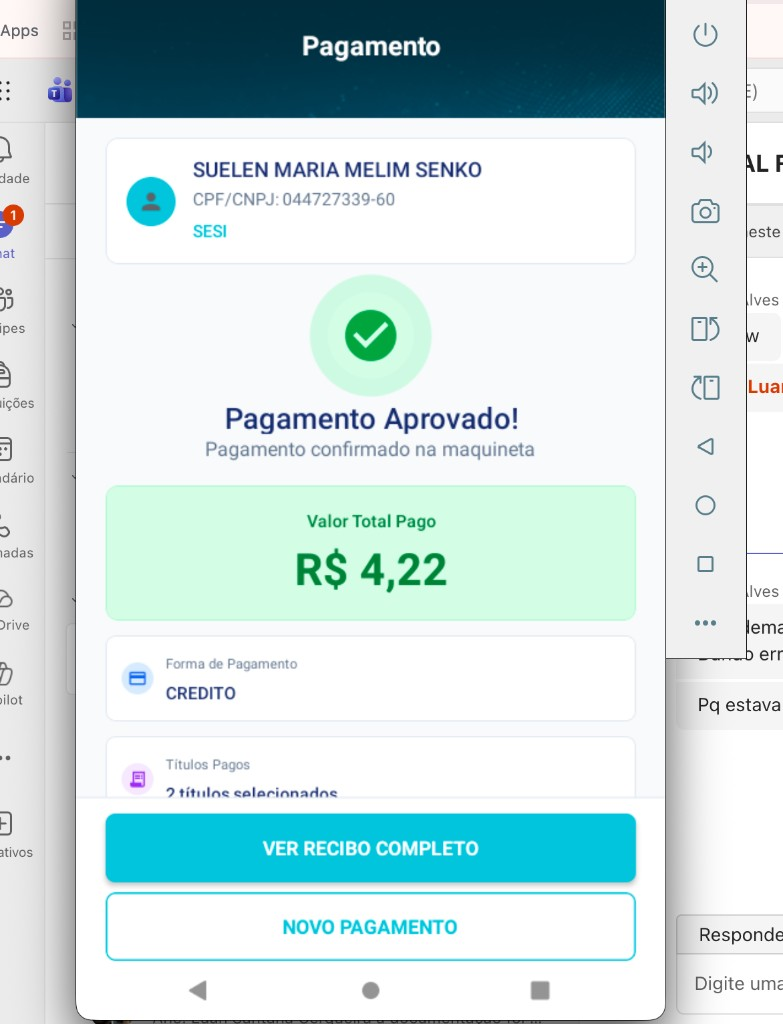
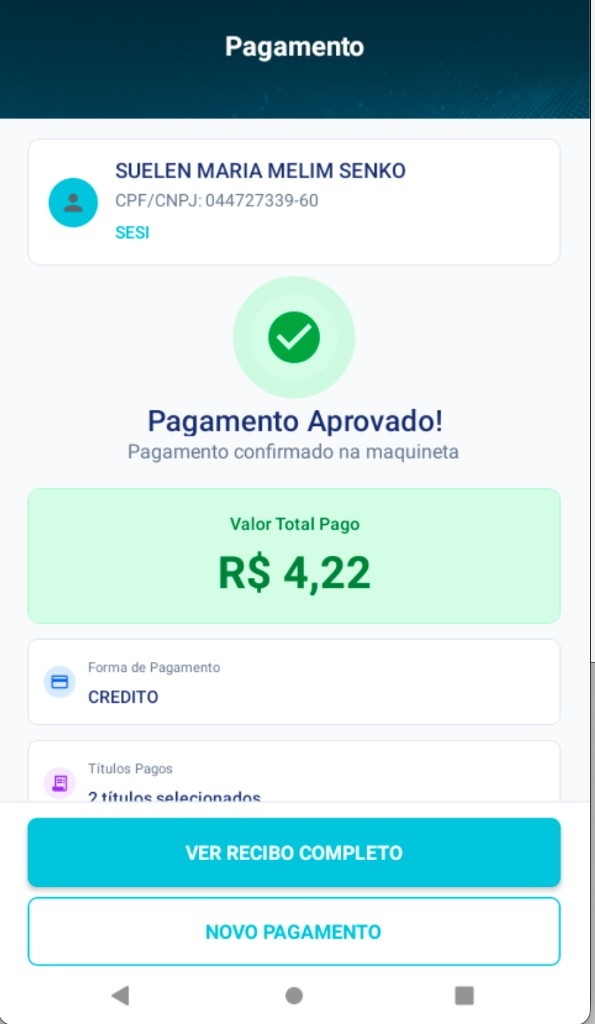
fix: pyment

diff --git a/src/Portfolio/index.jsx b/src/Portfolio/index.jsx
@@ -28,7 +28,7 @@ const PROJECTS = [
     description:
       "Desenvolvi app mobile de pagamentos para o SESI com integração à maquineta Cielo — títulos, confirmação e recibo no balcão.",
     link: "/project/5",
-    imageUrl: "/sesi-pagamento.png",
+    imageUrl: "/sesi-maquineta.png",
     imageFit: "contain"
   },
   {
